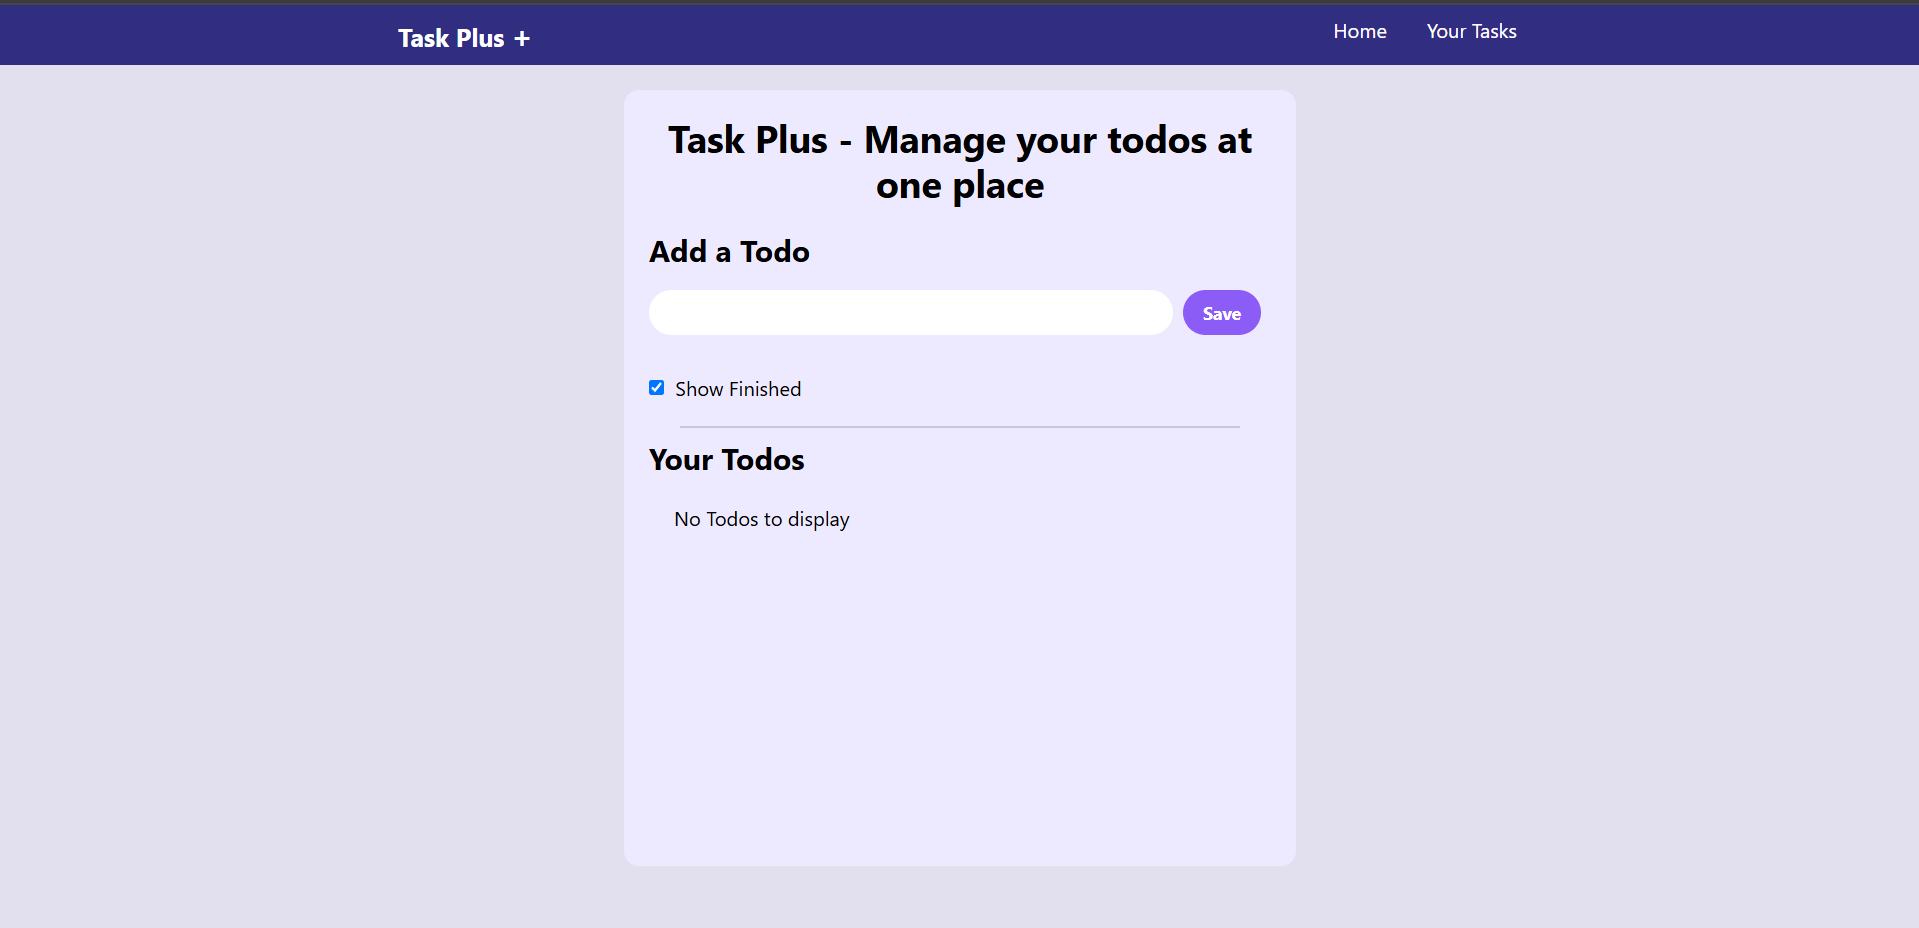
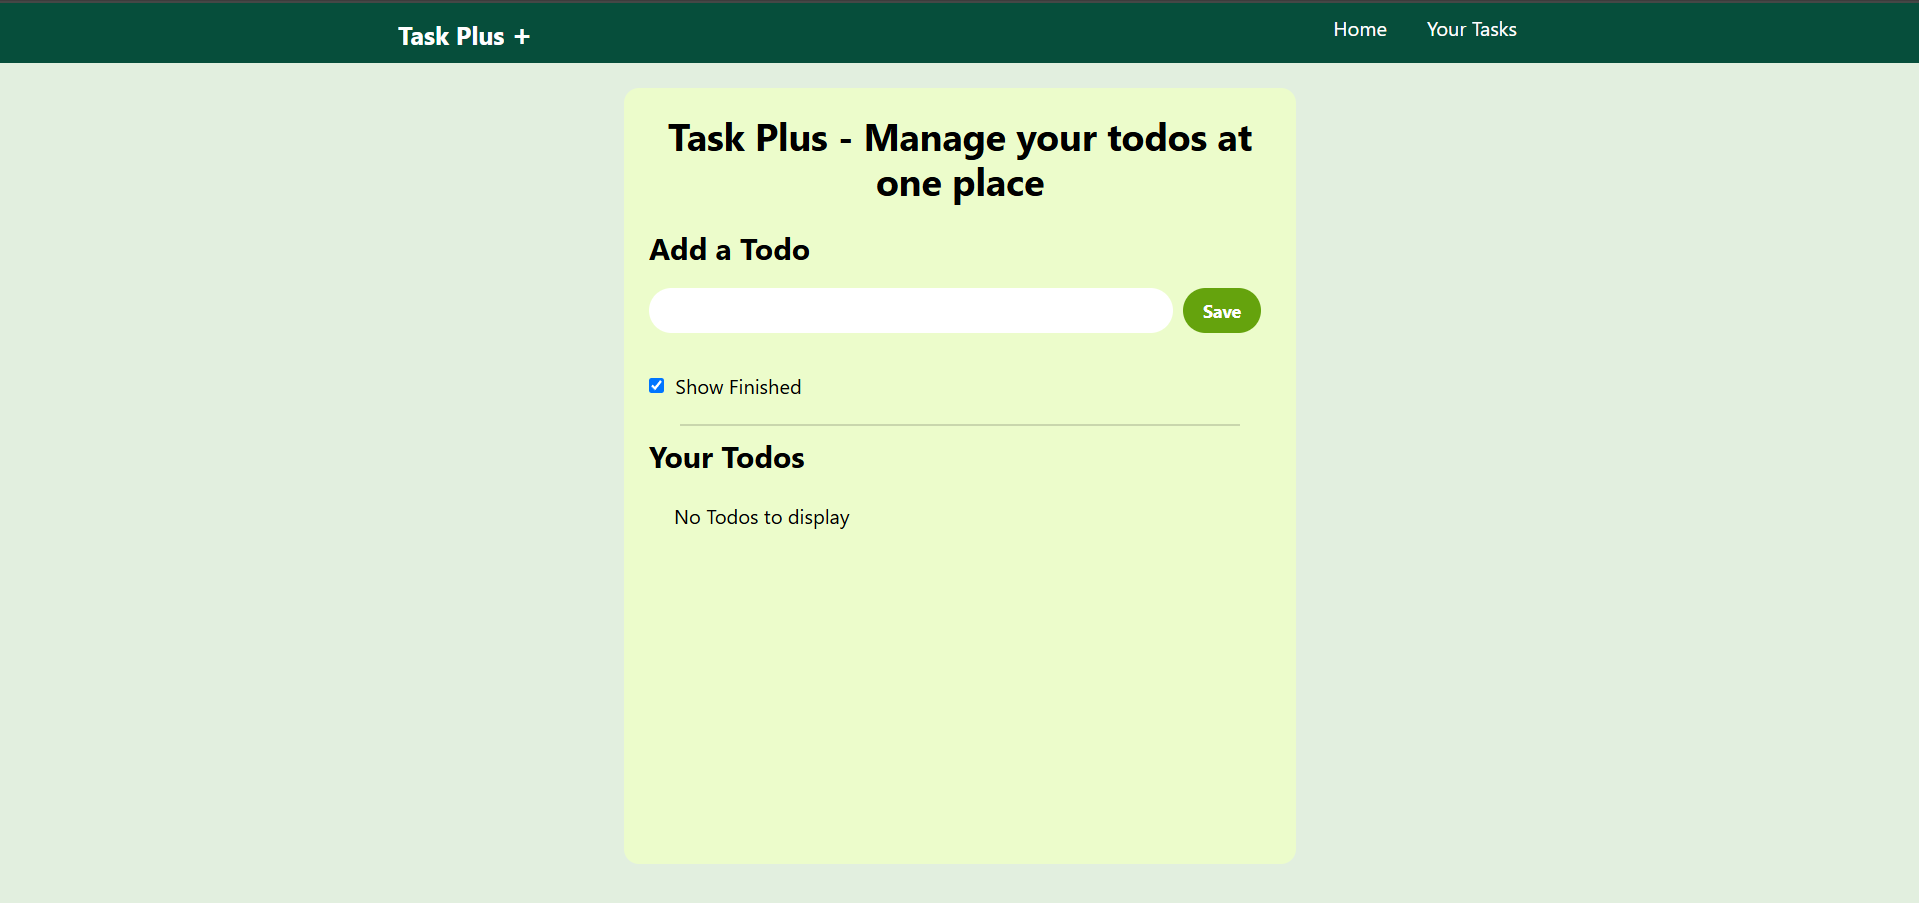
Some changes in styling

diff --git a/src/App.jsx b/src/App.jsx
@@ -73,14 +73,14 @@ function App() {
   return (
     < >
     <Navbar/> 
-       <div className="mx-3 md:container md:mx-auto my-5 rounded-xl p-5 bg-violet-100 min-h-[80vh] md:w-[35%]">
+       <div className="mx-3 md:container md:mx-auto my-5 rounded-xl p-5 bg-lime-100 min-h-[80vh] md:w-[35%]">
         <h1 className='font-bold text-center text-3xl'>Task Plus - Manage your todos at one place</h1>
          <div className="addTodo my-5 flex flex-col gap-4">
           <h2 className='text-2xl font-bold'>Add a Todo</h2>
           <div className="flex">
 
           <input  onChange={handleChange} value={todo} type="text" className='w-full rounded-full px-5 py-1' />
-          <button onClick={handleAdd} disabled={todo.length<=3} className='bg-violet-800 mx-2 rounded-full hover:bg-violet-950 disabled:bg-violet-500 p-4 py-2 text-sm font-bold text-white'>Save</button>
+          <button onClick={handleAdd} disabled={todo.length<=3} className='bg-emerald-800 mx-2 rounded-full hover:bg-emerald-950 disabled:bg-lime-600 p-4 py-2 text-sm font-bold text-white'>Save</button>
           </div>
          </div>
          <input className='my-4' id='show' onChange={toggleFinished} type="checkbox" checked={showFinished} /> 
@@ -97,8 +97,8 @@ function App() {
             <div className={item.isCompleted?"line-through":""}>{item.todo}</div>
             </div>
             <div className="buttons flex h-full">
-              <button onClick={(e)=>handleEdit(e, item.id)} className='bg-violet-800 hover:bg-violet-950 p-2 py-1 text-sm font-bold text-white rounded-md mx-1'><FaEdit /></button>
-              <button onClick={(e)=>{handleDelete(e, item.id)}} className='bg-violet-800 hover:bg-violet-950 p-2 py-1 text-sm font-bold text-white rounded-md mx-1'><AiFillDelete /></button>
+              <button onClick={(e)=>handleEdit(e, item.id)} className='bg-emerald-800 hover:bg-emerald-950 p-2 py-1 text-sm font-bold text-white rounded-md mx-1'><FaEdit /></button>
+              <button onClick={(e)=>{handleDelete(e, item.id)}} className='bg-emerald-800 hover:bg-emerald-950 p-2 py-1 text-sm font-bold text-white rounded-md mx-1'><AiFillDelete /></button>
             </div> 
           </div>
           })}

diff --git a/index.html b/index.html
@@ -2,9 +2,9 @@
 <html lang="en">
   <head>
     <meta charset="UTF-8" />
-    <link rel="icon" type="image/svg+xml" href="/vite.svg" />
+    <link rel="icon" type="image/svg+xml" href="/todo.svg" />
     <meta name="viewport" content="width=device-width, initial-scale=1.0" />
-    <title>iTask - Your Task Planner</title>
+    <title>Task Plus - Your Task Planner</title>
   </head>
   <body>
     <div id="root"></div>

diff --git a/src/components/Navbar.jsx b/src/components/Navbar.jsx
@@ -2,7 +2,7 @@ import React from 'react'
 
 const Navbar = () => {
   return (
-    <nav className='flex justify-around bg-indigo-900 text-white py-2'>
+    <nav className='flex justify-around bg-emerald-900 text-white py-2'>
         <div className="logo">
             <span className='font-bold text-xl mx-8'>Task Plus <span className='text-2xl'>+</span></span>
         </div>

diff --git a/src/index.css b/src/index.css
@@ -5,5 +5,5 @@
 
 body{
     --tw-bg-opacity: 1;
-    background-color: rgb(226, 223, 239)
+    background-color: rgb(226, 239, 223)
 }

diff --git a/README.md b/README.md
@@ -58,4 +58,5 @@ export default defineConfig({
 ## Screenshots
 
 ![alt text](image.png)
+
 ![alt text](image-1.png)
